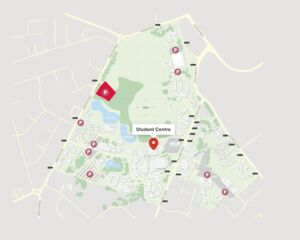
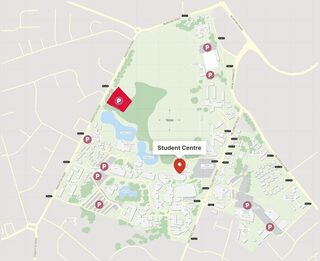
Open every gate map in one same-size, non-scrolling frame
The gate modals were a tall image plus a text footer, so they scrolled. They now open in a fixed frame sized to the window (full height, the map's own proportions) with the description and Google Maps link overlaid on the map, so nothing scrolls and all five gates open at the same size. Cropped the empty margins off the gate map images so the campus fills the frame and the card thumbnails are a bit clearer. On phones the frame shrinks to the map and the details sit below it.

diff --git a/frontend/src/App.css b/frontend/src/App.css
@@ -339,9 +339,43 @@ body {
   height: auto;
 }
 
+/* Gate modals use the same large frame as the campus map and never scroll:
+   the image scales to fit the window and the details sit on top of it. */
+.gate-map-modal {
+  height: 90vh;
+  width: auto;
+  aspect-ratio: 1380 / 1125;
+  max-width: 92vw;
+  max-height: none;
+  padding: 0;
+  overflow: hidden;
+  background: #e5e4e2;
+}
+
+.gate-map-modal img {
+  width: 100%;
+  height: 100%;
+  max-width: none;
+  object-fit: contain;
+}
+
 .gate-map-modal-footer {
-  padding: 14px 4px 4px;
+  position: absolute;
+  left: 20px;
+  bottom: 20px;
+  max-width: 320px;
+  padding: 14px 16px;
+  background: rgba(255, 255, 255, 0.95);
+  border-radius: 8px;
+  box-shadow: 0 2px 12px rgba(0, 0, 0, 0.18);
   text-align: left;
+}
+
+.gate-map-modal-footer strong {
+  display: block;
+  margin-bottom: 4px;
+  font-family: var(--font-display);
+  color: var(--waikato-red);
 }
 
 .gate-map-modal-footer p {
@@ -765,5 +799,24 @@ body {
 
   .occupancy-percent {
     font-size: 48px;
+  }
+}
+
+@media (max-width: 600px) {
+  .gate-map-modal {
+    height: auto;
+    width: 92vw;
+    aspect-ratio: auto;
+  }
+
+  .gate-map-modal img {
+    height: auto;
+  }
+
+  .gate-map-modal-footer {
+    position: static;
+    max-width: none;
+    border-radius: 0;
+    box-shadow: none;
   }
 }

diff --git a/frontend/src/OccupancyPage.jsx b/frontend/src/OccupancyPage.jsx
@@ -226,7 +226,7 @@ function OccupancyPage({
 
       {activeGateMap && (
         <div className="modal-overlay" onClick={() => setActiveGateMap(null)}>
-          <div className="map-modal-box" onClick={(e) => e.stopPropagation()}>
+          <div className="map-modal-box gate-map-modal" onClick={(e) => e.stopPropagation()}>
             <button
               type="button"
               className="map-modal-close"
@@ -239,6 +239,7 @@ function OccupancyPage({
               alt={`${activeGateMap.gate.name} highlighted on campus map`}
             />
             <div className="gate-map-modal-footer">
+              <strong>{activeGateMap.gate.name}</strong>
               <p>{activeGateMap.location.description}</p>
               <a
                 href={mapsUrl(activeGateMap.location.mapsQuery)}
